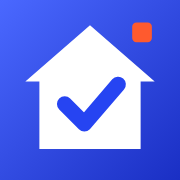
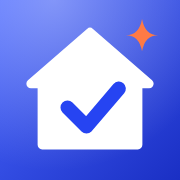
Add files via upload

diff --git a/index.html b/index.html
@@ -328,6 +328,20 @@ body::before{position:absolute;bottom:auto;height:560px}
 .tundo{padding:7px 14px;font-size:.88rem}
 @keyframes tin{from{opacity:0;transform:translate(-50%,8px)}to{opacity:1;transform:translateX(-50%)}}
 #vHome .top .logo{width:36px;height:36px}
+
+/* tela de abertura */
+.splash{position:fixed;inset:0;z-index:9999;display:flex;flex-direction:column;align-items:center;justify-content:center;gap:6px;background:var(--bg);background-image:radial-gradient(circle at 50% 38%,var(--glowA),transparent 60%);transition:opacity .35s ease,visibility .35s;animation:spFail .01s 4s forwards}
+.splash.out{opacity:0;visibility:hidden;pointer-events:none}
+.splash-logo{width:112px;height:112px;margin-bottom:14px;animation:spIn .7s cubic-bezier(.2,.9,.3,1.2) both}
+.splash-name{font-size:26px;font-weight:800;letter-spacing:-.02em;animation:spUp .5s .25s both}
+.splash-sub{font-size:13px;color:var(--muted);letter-spacing:.06em;animation:spUp .5s .4s both}
+.splash-bar{display:block;width:96px;height:4px;border-radius:4px;background:var(--a16);margin-top:26px;overflow:hidden;animation:spUp .4s .5s both}
+.splash-bar u{display:block;height:100%;width:40%;border-radius:4px;background:var(--accent);animation:spBar 1s ease-in-out infinite}
+@keyframes spIn{from{opacity:0;transform:scale(.6) rotate(-8deg)}to{opacity:1;transform:none}}
+@keyframes spUp{from{opacity:0;transform:translateY(8px)}to{opacity:1;transform:none}}
+@keyframes spBar{from{transform:translateX(-100%)}to{transform:translateX(250%)}}
+@keyframes spFail{to{opacity:0;visibility:hidden;pointer-events:none}}
+@media (prefers-reduced-motion:reduce){.splash *{animation:none!important}}
 </style>
 </head>
 <body>
@@ -335,14 +349,24 @@ body::before{position:absolute;bottom:auto;height:560px}
 <svg width="0" height="0" style="position:absolute" aria-hidden="true" focusable="false">
   <defs>
     <linearGradient id="lg" x1="0" y1="0" x2="1" y2="1"><stop offset="0" stop-color="#4a68ff"/><stop offset="1" stop-color="#1a2fc4"/></linearGradient>
-    <symbol id="logo" viewBox="0 0 64 64">
-      <rect width="64" height="64" rx="15" fill="url(#lg)"/>
-      <path d="M32 9 55 29h-5v24H14V29H9z" fill="#ffffff"/>
-      <path d="M23 37l7 7 12-14" fill="none" stroke="#2644f2" stroke-width="5.5" stroke-linecap="round" stroke-linejoin="round"/>
-      <rect x="47" y="8" width="7" height="7" rx="1.5" fill="#ff5a2e"/>
+    <radialGradient id="lh" cx=".3" cy="0" r=".95"><stop offset="0" stop-color="#fff" stop-opacity=".34"/><stop offset="1" stop-color="#fff" stop-opacity="0"/></radialGradient>
+    <symbol id="logo" viewBox="0 0 512 512">
+      <rect width="512" height="512" rx="116" fill="url(#lg)"/>
+      <rect width="512" height="512" rx="116" fill="url(#lh)"/>
+      <path d="M256 92 424 238H392V412H120V238H88Z" fill="#fff" stroke="#fff" stroke-width="26" stroke-linejoin="round"/>
+      <path d="M192 306l54 54 92-108" fill="none" stroke="#2644f2" stroke-width="40" stroke-linecap="round" stroke-linejoin="round"/>
+      <path d="M404 54q8 46 46 46-38 0-46 46-8-46-46-46 38 0 46-46Z" fill="#ff7a45"/>
     </symbol>
   </defs>
 </svg>
+
+<!-- tela de abertura -->
+<div class="splash" id="splash" aria-hidden="true">
+  <svg class="logo splash-logo"><use href="#logo"/></svg>
+  <b class="splash-name">Feito em Casa</b>
+  <span class="splash-sub">cada tarefa conta</span>
+  <i class="splash-bar"><u></u></i>
+</div>
 
 <!-- escolha de perfil (primeira vez) -->
 <div class="modepick" id="vMode" hidden>
@@ -367,6 +391,7 @@ body::before{position:absolute;bottom:auto;height:560px}
       <button data-go="report"><span data-ic="report"></span>Resumo</button>
       <button data-go="pais"><span data-ic="eye"></span>O que os pais veem</button>
       <span class="lbl">Sistema</span>
+      <button data-go="guide"><span data-ic="home"></span>Guia de uso</button>
       <button data-go="edit"><span data-ic="gear"></span>Personalizar</button>
       <button id="swapMode"><span data-ic="swap"></span>Trocar perfil</button>
     </nav>
@@ -510,6 +535,17 @@ body::before{position:absolute;bottom:auto;height:560px}
       <div id="paisBody" class="stack"></div>
       <p class="status" id="paisStatus"></p>
       <button class="link" id="paisSwap" style="align-self:center">Trocar perfil</button>
+    </div>
+
+    <!-- guia de uso -->
+    <div id="vGuide" class="stack" hidden>
+      <section class="card"><h3 class="h3">1. Calendário</h3><p>Ao abrir, a tela principal é o calendário do mês. Use as setas para trocar de mês e toque em um dia para abrir as tarefas dele. Depois de escolher o dia, o calendário fica no menu ☰, no canto esquerdo.</p></section>
+      <section class="card"><h3 class="h3">2. Registrar o que você fez</h3><p>Toque no serviço (Aspirar, Lavar louça...) e escolha o cômodo ou a opção, como <b>Casa toda</b>. Fez de novo no mesmo dia? Toque outra vez: o contador vira 2x, 3x e assim por diante. Errou? Use <b>Desfazer</b> no aviso que aparece embaixo.</p></section>
+      <section class="card"><h3 class="h3">3. Personalizar</h3><p>Em <b>Personalizar</b> você cria, edita e apaga serviços, escolhe o ícone e define as opções de cada um. A rotina de todo dia também fica lá. A caixinha de areia é só um exemplo e pode ser trocada.</p></section>
+      <section class="card"><h3 class="h3">4. Agente</h3><p>Toque no robô, depois em <b>Escolher serviços</b> e marque o que precisa fazer hoje. Conforme concluir, marque no plano ou diga ao agente. Pergunte, por exemplo: “o que falta?”, “o que eu já fiz?”, “quanto falta?” ou “terminei de lavar a louça”.</p></section>
+      <section class="card"><h3 class="h3">5. Painel dos pais</h3><p>Em <b>Personalizar → Painel dos pais → Criar link dos pais</b>, toque em <b>Enviar link</b> e mande pelo WhatsApp. Eles veem só os resultados (o que foi feito hoje e a que horas, o plano do dia, os últimos 7 dias), sem login e sem poder mudar nada. Para cortar o acesso, toque em <b>Desligar</b>. Em <b>O que os pais veem</b> você confere a tela deles.</p></section>
+      <section class="card"><h3 class="h3">6. Seus dados</h3><p>Tudo fica salvo no seu aparelho e o app abre sem internet. Faça backup de vez em quando em <b>Personalizar → Backup dos dados → Copiar backup</b>. Para voltar, cole e toque em <b>Restaurar</b> duas vezes.</p></section>
+      <section class="card"><p class="empty">Dica: abra sempre pelo ícone da tela inicial, porque o navegador e o ícone guardam dados separados. Se o app não mostrar a versão nova, use <b>Personalizar → Atualizar o app agora</b>.</p></section>
     </div>
 
     <!-- personalizar -->
@@ -877,7 +913,7 @@ function renderCal(){
     const b=el('button','d'+(cnt?' has':'')+(k===today?' today':'')+(k===sel?' sel':''),'<span>'+d+'</span><span class="tk">'+tally(cnt)+'</span>'+(pend?'<span class="pd"></span>':''));
     b.setAttribute('aria-label',d+' de '+MES[vm]+(cnt?', '+plural(cnt,'serviço','serviços'):'')+(pend?', com pendência':''));
     b.setAttribute('aria-pressed',String(k===sel));if(k===today)b.setAttribute('aria-current','date');
-    b.onclick=()=>{sel=k;closeSheet(true);if(view==='home'||view==='pais'||view==='edit'||view==='report')showView('day');else render();closeSide()};
+    b.onclick=()=>{sel=k;closeSheet(true);if(view==='home'||view==='pais'||view==='edit'||view==='guide'||view==='report')showView('day');else render();closeSide()};
     C.append(b);
   }
 }
@@ -1031,7 +1067,7 @@ async function shareAndToast(t){
 }
 
 /* ===== 9. telas extras ===== */
-const TITLES={day:'Dia',agent:'Agente',report:'Resumo',edit:'Personalizar',pais:'O que os pais veem'};
+const TITLES={day:'Dia',agent:'Agente',report:'Resumo',edit:'Personalizar',guide:'Guia de uso',pais:'O que os pais veem'};
 function barInfo(){
   if(!TITLES[view])return;$('btTitle').textContent=TITLES[view];
   const d=dateOf(sel);$('btSub').textContent=(view==='day'||view==='agent')?WDL[d.getDay()]+', '+d.getDate()+' de '+MES[d.getMonth()]+(sel===todayKey()?' · hoje':''):'';
@@ -1040,7 +1076,7 @@ function showView(v){
   if(prefs.mode==='pais'&&v!=='pais')v='pais';
   view=v;closeSheet(true);closeSide();
   if(v==='home'||v==='day')lastMain=v;
-  for(const [id,k] of [['vHome','home'],['vDay','day'],['vAgent','agent'],['vReport','report'],['vEdit','edit'],['vPais','pais']])$(id).hidden=k!==v;
+  for(const [id,k] of [['vHome','home'],['vDay','day'],['vAgent','agent'],['vReport','report'],['vEdit','edit'],['vGuide','guide'],['vPais','pais']])$(id).hidden=k!==v;
   const paisOnly=prefs.mode==='pais';
   $('barTop').hidden=v==='home'||paisOnly;$('paisTop').hidden=!paisOnly;$('paisSwap').hidden=!paisOnly;
   document.body.classList.toggle('inapp',v!=='home'&&!paisOnly);document.body.classList.toggle('pais',paisOnly);
@@ -1559,6 +1595,7 @@ $('pickPais').onclick=()=>{prefs.mode='pais';savePrefs();startMode()};
 loadState();
 greet();
 startMode();
+{const sp=$('splash');if(sp)setTimeout(()=>{sp.classList.add('out');setTimeout(()=>sp.remove(),450)},Math.max(0,1100-performance.now()))}
 setReminder(localReminder(facts()),false);
 (async function startPlatform(){
   if(!CL){askAI(false);return}

diff --git a/sw.js b/sw.js
@@ -1,5 +1,5 @@
 /* Feito em Casa · cache offline. O nome do cache muda sempre que algum arquivo muda. */
-const CACHE='fec-9cdb57e2fe';
+const CACHE='fec-c01c7efb81';
 const CORE=["./", "./index.html", "./manifest.webmanifest", "./favicon.svg", "./icon-192.png", "./icon-512.png", "./icon-maskable-512.png", "./apple-touch-icon.png", "./plus-jakarta-sans-latin-wght-normal.woff2"];
 self.addEventListener('install',e=>{
   e.waitUntil(caches.open(CACHE).then(c=>c.addAll(CORE.map(u=>new Request(u,{cache:'reload'})))).then(()=>self.skipWaiting()));
